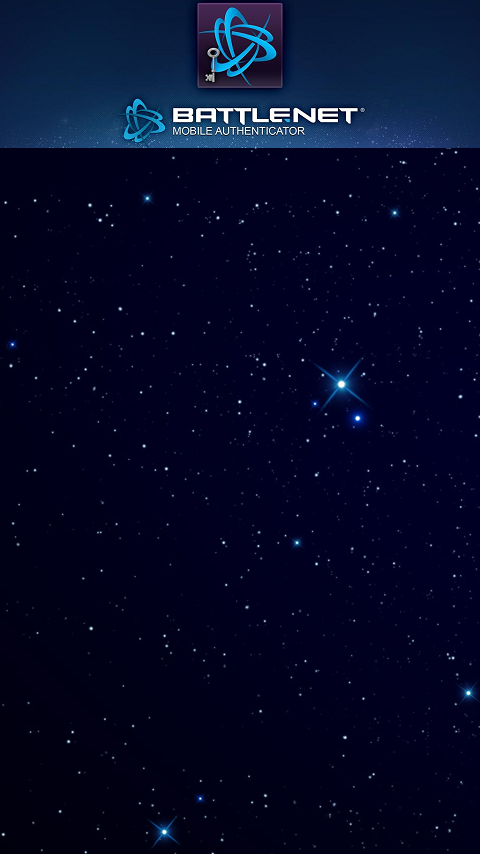
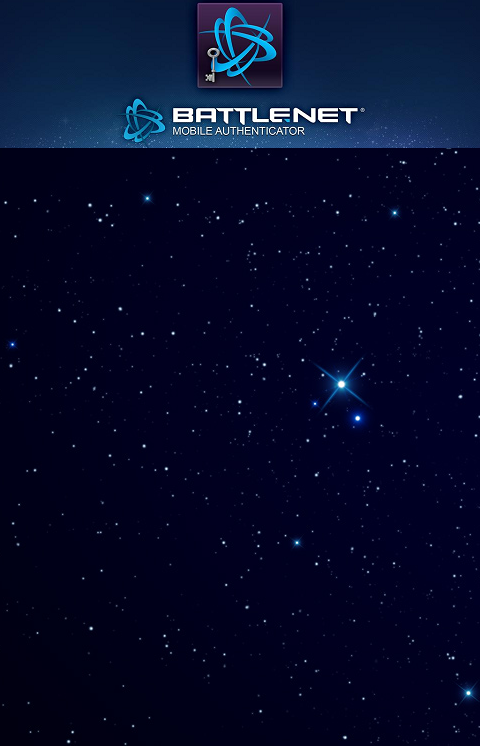
Add restore feature

diff --git a/khtbma/qml/RestorePage.qml b/khtbma/qml/RestorePage.qml
@@ -1,0 +1,100 @@
+import QtQuick 1.1
+import com.nokia.meego 1.0
+
+Page {
+    tools: commonPageTools
+    orientationLock: PageOrientation.LockPortrait
+    
+    Image {
+        anchors.fill: parent
+        source: 'background.png'
+        fillMode: Image.PreserveAspectCrop
+    }
+
+    Label {
+        id: restoreSerialLabel
+        color: "white";
+        anchors.top: parent.top
+        anchors.topMargin: 180
+        anchors.left: parent.left
+        anchors.leftMargin: 10
+        anchors.right: parent.right
+        anchors.rightMargin: 10
+        font.family: "NokiaPure"
+        font.pixelSize: 18
+        font.bold: true
+        text: qsTr("Serial to restore :")
+    }
+    TextField {
+        id: restoreSerial
+        anchors.top: restoreSerialLabel.bottom
+        anchors.topMargin: 10
+        anchors.left: parent.left
+        anchors.leftMargin: 10
+        anchors.right: parent.right
+        anchors.rightMargin: 10
+        //placeholder: 'US-12345-12345-12345'
+    }
+
+    Label {
+        id: restoreCodeLabel
+        anchors.top: restoreSerial.bottom
+        anchors.topMargin: 10
+        anchors.left: parent.left
+        anchors.leftMargin: 10
+        anchors.right: parent.right
+        anchors.rightMargin: 10
+        color: "white";
+        font.family: "NokiaPure"
+        font.pixelSize: 18
+        font.bold: true
+        text: qsTr("Restore code :")
+    }
+    TextField {
+        id: restoreCode
+        anchors.top: restoreCodeLabel.bottom
+        anchors.topMargin: 10
+        anchors.left: parent.left
+        anchors.leftMargin: 10
+        anchors.right: parent.right
+        anchors.rightMargin: 10
+        //placeholder: 'Restore code'
+    }
+    Button{
+        anchors {
+            horizontalCenter: parent.horizontalCenter
+            top: restoreCode.bottom
+            topMargin: 40
+        }
+        text: qsTr("Restore")
+        onClicked: {restoreSerialDialog.open();}
+    }
+    
+    
+    QueryDialog {
+        id: restoreSerialDialog
+        icon: Qt.resolvedUrl('khtbma.png')
+        titleText: "Warning"
+        message: "Are you sure you want to restore this serial, the old one will be lost ?"
+        acceptButtonText: qsTr("Accept")
+        rejectButtonText: qsTr("Cancel")
+        onAccepted: {
+                
+        }
+    }
+    
+    ToolBarLayout {
+        id: commonPageTools
+        visible: true
+        ToolIcon {
+            platformIconId: "toolbar-back"
+            anchors.left: (parent === undefined) ? undefined : parent.left
+            onClicked: {pageStack.pop();}
+        }
+        ToolIcon {
+            platformIconId: "toolbar-view-menu"
+            anchors.right: (parent === undefined) ? undefined : parent.right
+            onClicked: (myMenu.status === DialogStatus.Closed) ? myMenu.open() : myMenu.close()
+        }
+    }
+}

diff --git a/khtbma/qml/SetupPage.qml b/khtbma/qml/SetupPage.qml
@@ -2,11 +2,12 @@ import QtQuick 1.1
 import com.nokia.meego 1.0
 
 Page {
-    tools: commonPageTools
+    tools: setupTools
     orientationLock: PageOrientation.LockPortrait
     
     Image {
         anchors.fill: parent
+        fillMode: Image.PreserveAspectCrop
         source: 'background.png'
     }
 
@@ -118,16 +119,45 @@ Page {
         text: Authenticator.token
     }
     Button{
+        id: newSerialButton
         anchors {
             horizontalCenter: parent.horizontalCenter
             top: secret.bottom
-            topMargin: 40
+            topMargin: 30
         }
         text: qsTr("Request new serial")
         onClicked: {newSerialDialog.open()}
     }
     
-    
+    Button{
+        id: getRestoreCodeButton
+        anchors {
+            horizontalCenter: parent.horizontalCenter
+            top: newSerialButton.bottom
+            topMargin: 30
+            }
+        text: qsTr("Get Restore Code")
+        onClicked: {viewRestoreCode.open();}
+    }
+    Button{
+        id: restoreSerialButton
+        anchors {
+            horizontalCenter: parent.horizontalCenter
+            top: getRestoreCodeButton.bottom
+            topMargin: 30
+            }
+        text: qsTr("Restore a serial")
+        onClicked: {pageStack.push(restorePage);}
+        }
+
+    QueryDialog {
+        id: viewRestoreCode
+        icon: Qt.resolvedUrl('khtbma.png')
+        titleText: 'Code'
+        message: "Your restore code is : " + Authenticator.getRestoreCode()
+        acceptButtonText: qsTr("Close")
+        }
+
     QueryDialog {
         id: newSerialDialog
         icon: Qt.resolvedUrl('khtbma.png')
@@ -139,10 +169,21 @@ Page {
                 Authenticator.new_serial();
         }
     }
-    
+
+  Menu {
+        id: setupMenu
+        visualParent: pageStack
+        MenuLayout {
+            MenuItem { text: qsTr('About'); onClicked: (pageStack.push(aboutPage))}
+        //    MenuItem { text: qsTr('Get restore code'); onClicked: (viewRestoreCode.open())}
+            MenuItem { text: qsTr('Restore Serial'); onClicked: (pageStack.push(restorePage))}
+        }
+    }
+
     ToolBarLayout {
-        id: commonPageTools
+        id: setupTools
         visible: true
+        
         ToolIcon {
             platformIconId: "toolbar-back"
             anchors.left: (parent === undefined) ? undefined : parent.left
@@ -151,7 +192,8 @@ Page {
         ToolIcon {
             platformIconId: "toolbar-view-menu"
             anchors.right: (parent === undefined) ? undefined : parent.right
-            onClicked: (myMenu.status === DialogStatus.Closed) ? myMenu.open() : myMenu.close()
+            onClicked: (setupMenu.status === DialogStatus.Closed) ? setupMenu.open()    : setupMenu.close()
         }
     }
+    
 }

diff --git a/khtbma/qml/main.qml b/khtbma/qml/main.qml
@@ -11,6 +11,9 @@ PageStackWindow {
         id: mainPage
     }
 
+    RestorePage {
+        id: restorePage
+    }
     SetupPage {
         id: setupPage
     }
@@ -23,18 +26,25 @@ PageStackWindow {
         ToolIcon {
             platformIconId: "toolbar-view-menu"
             anchors.right: (parent === undefined) ? undefined : parent.right
-            onClicked: (myMenu.status === DialogStatus.Closed) ? myMenu.open() : myMenu.close()
+            onClicked: (mainMenu.status === DialogStatus.Closed) ? mainMenu.open() : mainMenu.close()
         }
     }
 
-
     Menu {
-        id: myMenu
+        id: mainMenu
         visualParent: pageStack
         MenuLayout {
             MenuItem { text: qsTr("About"); onClicked: (pageStack.push(aboutPage)) }
             MenuItem { text: qsTr("Setup"); onClicked: (pageStack.push(setupPage))}
         }
+    }
+
+    QueryDialog {
+        id: viewRestoreCode
+        icon: Qt.resolvedUrl('khtbma.png')
+        titleText: 'Code'
+        message: "Your restore code is : " + Authenticator.getRestoreCode()
+        acceptButtonText: qsTr("Close")
     }
 
     InfoBanner{

diff --git a/khtbma/qml/MainPage.qml b/khtbma/qml/MainPage.qml
@@ -6,10 +6,12 @@ Page {
     orientationLock: PageOrientation.LockPortrait
     
     Image {
+        id:backg
         anchors.fill: parent
         source: 'background.png'
+        fillMode: Image.PreserveAspectCrop
+        sourceSize.height: 800
     }
-
     Label {
         id: label
         anchors.centerIn: parent
@@ -40,7 +42,7 @@ Page {
             topMargin: 100
         }
         text: qsTr("Resync")
-        onClicked: {Authenticator.sync();}
+        onClicked: {Authenticator.sync();console.log(backg.height);}
         visible: false
     }
 }

diff --git a/make.py b/make.py
@@ -24,7 +24,8 @@ __build__ = '1'
 __author__ = "Benoît HERVIER (khertan)"
 __mail__ = "khertan@khertan.net"
 __upgrade__ = '''1.0: Initial Public Release
-1.1: Better use of harmattan invoker'''
+1.1: Better use of harmattan invoker
+1.2: Add restore serial capabilities'''
 
 if __name__ == "__main__":
     try:
@@ -39,7 +40,7 @@ if __name__ == "__main__":
     p.description="An unofficial Battle.net Authenticator for Nokia n9 and n950 MeeGo Devices. Usefull for having more secure login in some Blizzard Games like World of Warcraft and Diablo III."
     p.upgrade_description=__upgrade__
     p.author=__author__
-    p.maintainer=__author__    
+    p.maintainer=__author__
     p.email=__mail__
     p.depends = "python, python-pyside.qtgui, python-pyside.qtdeclarative, python-pyside.qtcore, python-pyside.qtopengl"
     p.suggests = ""
@@ -68,7 +69,7 @@ chmod +x /opt/khtbma/__init__.py'''
     p['/usr/share/icons/blanco/80x80/apps'] = ['khtbma.png',]
     p['/usr/share/applications'] = ['khtbma.desktop',]
     p["/opt"] = files
-    
+
     print p.generate(build_binary=True,build_src=True)
     if not os.path.exists('dists'):
         os.mkdir('dists')
@@ -76,4 +77,4 @@ chmod +x /opt/khtbma/__init__.py'''
         os.rename(filepath, os.path.join(os.path.dirname(filepath), 'dists', os.path.basename(filepath)))
 
 
-    
+

diff --git a/khtbma/__init__.py b/khtbma/__init__.py
@@ -27,7 +27,7 @@ import bna
 
 __author__ = 'Benoit HERVIER (Khertan)'
 __email__ = 'khertan@khertan.net'
-__version__ = '1.1.0'
+__version__ = '1.2.0'
 
 class Authenticator(QObject):
 
@@ -94,6 +94,18 @@ class Authenticator(QObject):
         self._serial = serial
         self._settings.setValue("SERIAL", self._serial)
         self.on_serialChanged.emit()
+
+    @Slot(result=unicode)
+    def getRestoreCode(self):
+        return unicode(bna.getRestoreCode(self._serial, self._secret))
+
+    @Slot(unicode, unicode)
+    def RestoreSerial(self, serial, restore_code):
+        try:
+            self._set_serial(serial)
+            bna.restore(serial, restore_code)
+        except ValueError, err:
+            self.on_error.emit(unicode(err))
 
     def _get_token(self):
         return self._token

diff --git a/khtbma/bna.py b/khtbma/bna.py
@@ -7,7 +7,7 @@ Specification can be found here:
 Python implementation by Jerome Leclanche <jerome.leclanche@gmail.com>
 """
 
-__version__ = "3.0"
+__version__ = "3.1"
 
 import hmac
 from binascii import hexlify
@@ -104,11 +104,15 @@ def requestNewSerial(region="US", model="Motorola RAZR v3"):
 	if region not in ("EU", "US"):
 		raise ValueError("Unexpected region: %r" % (region))
 
-	return {"serial": serial, "secret": secret}
+	return serial, secret
 
 def bytesToRestoreCode(digest):
 	ret = []
 	for i in digest:
+		# Python2 compat
+		if isinstance(i, str):
+			i = ord(i)
+
 		c = i & 0x1f
 		if c < 10:
 			c += 48
